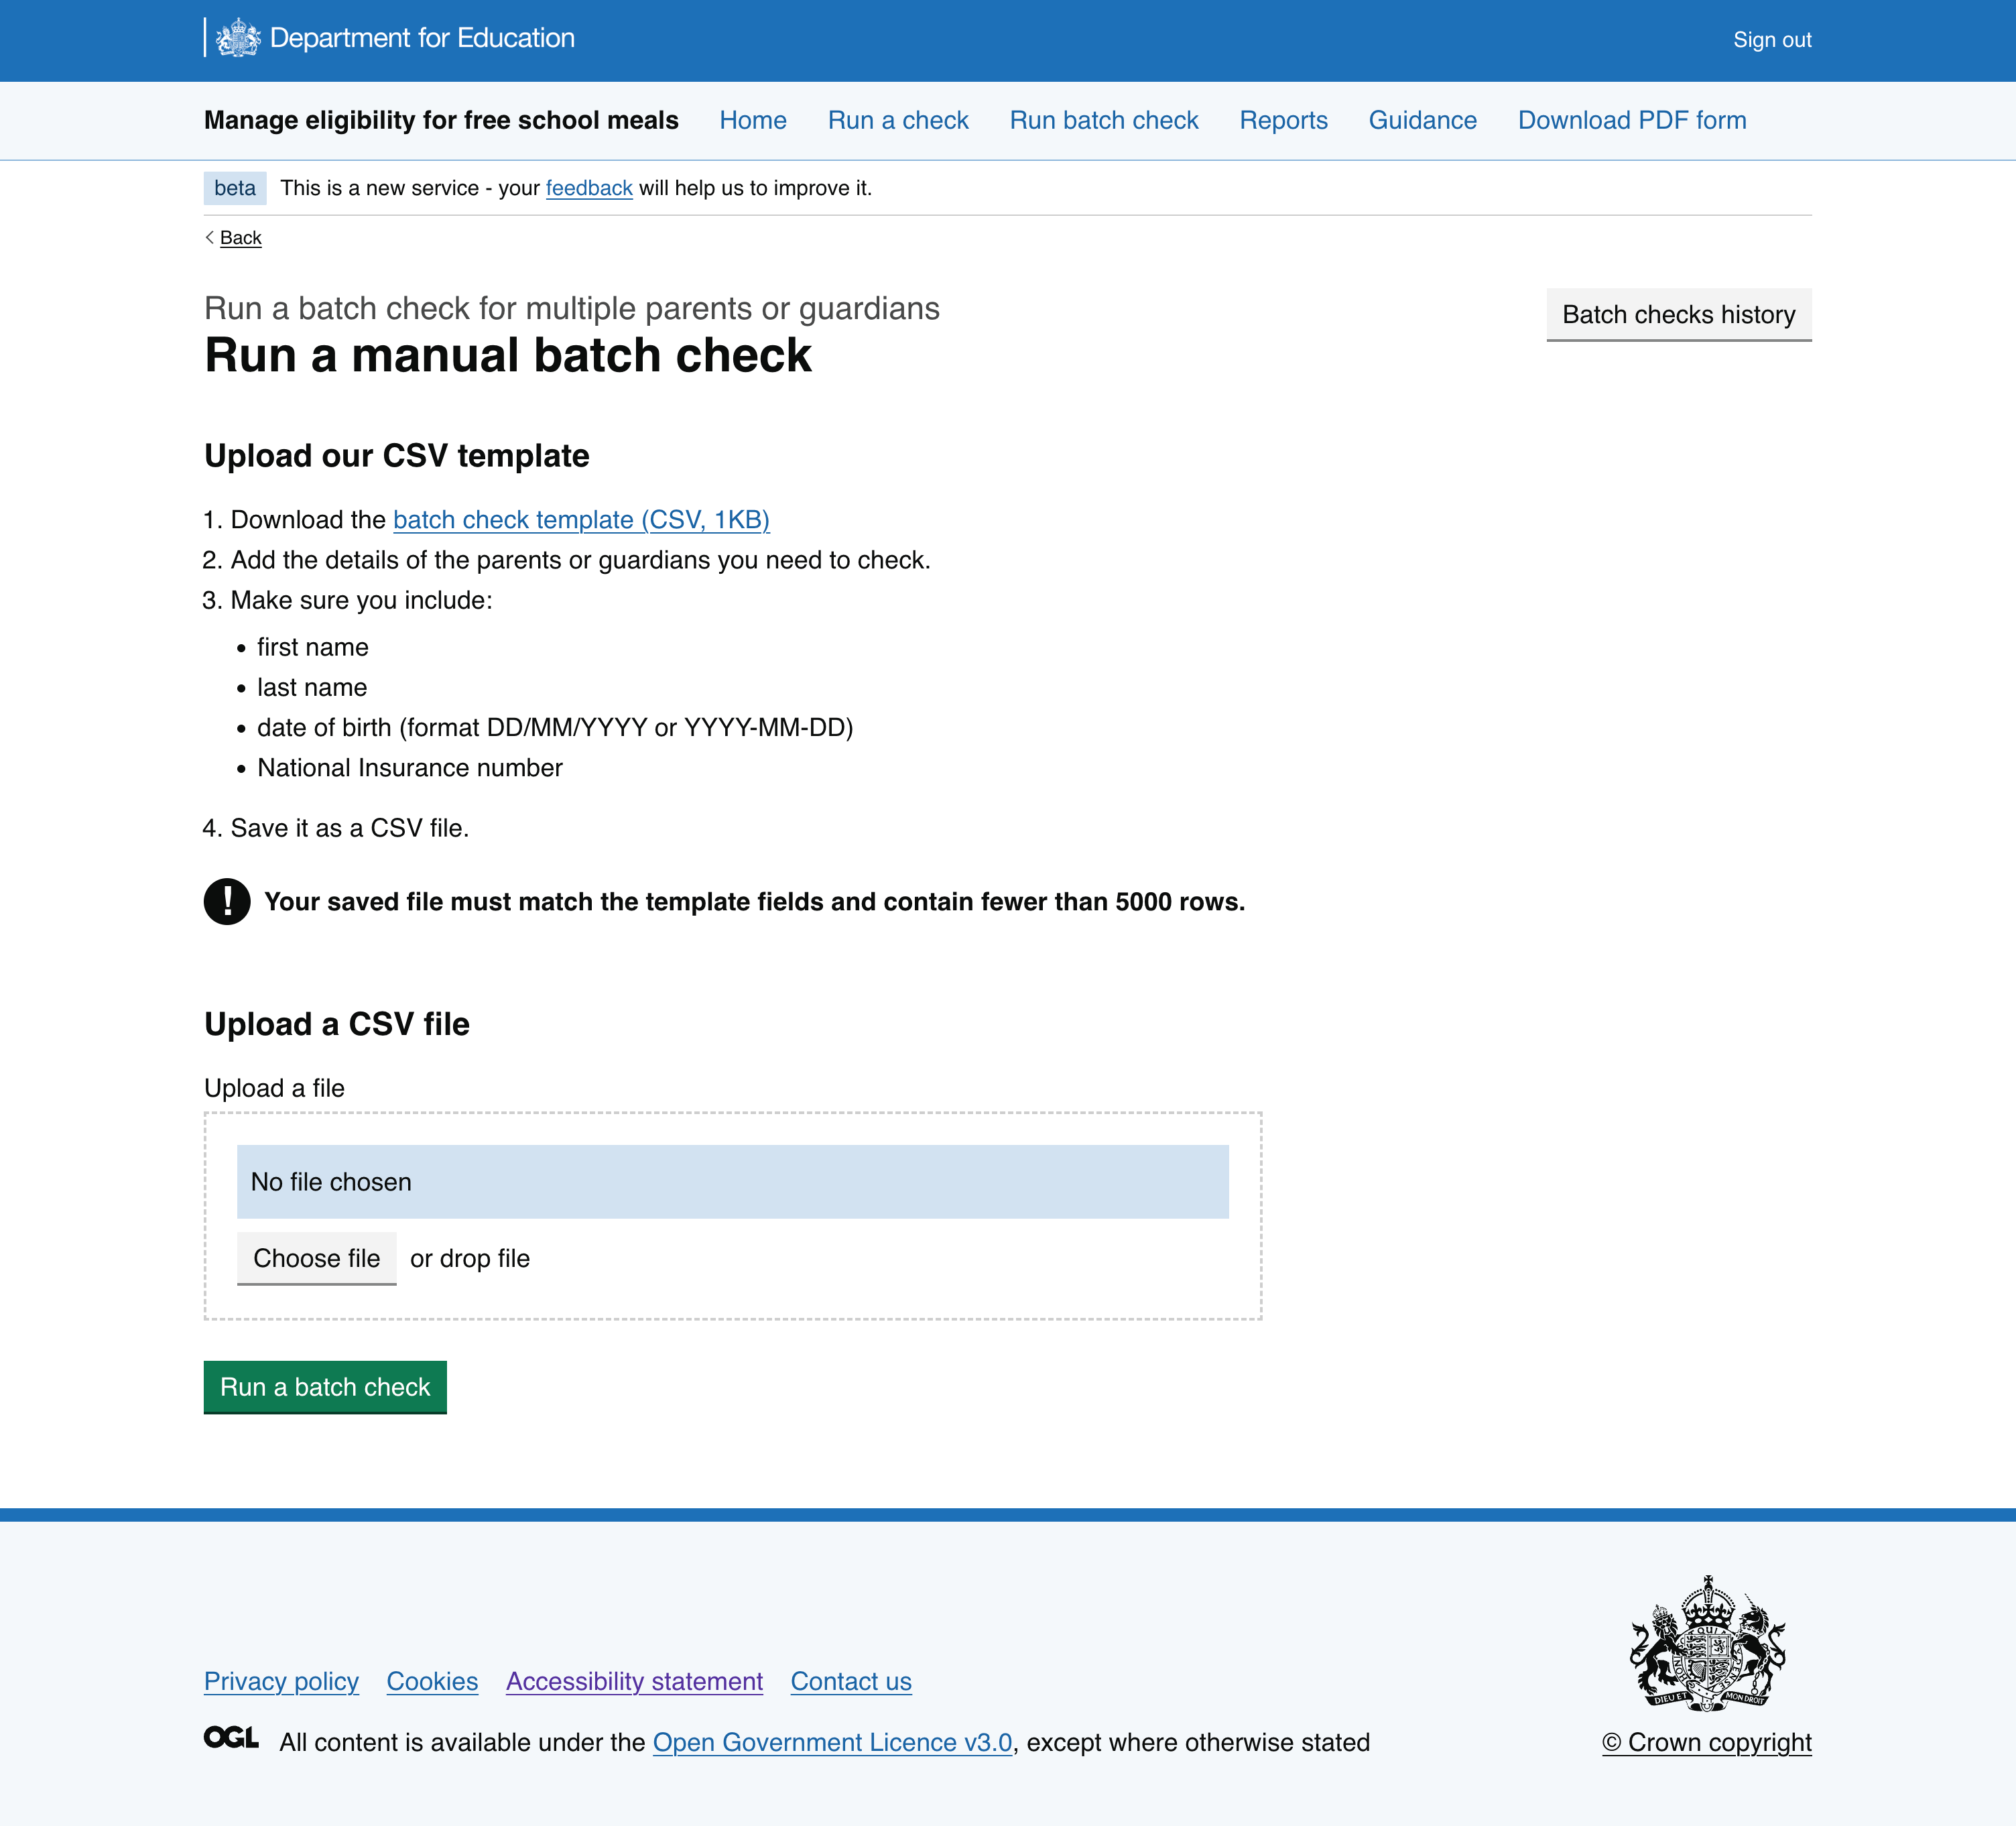
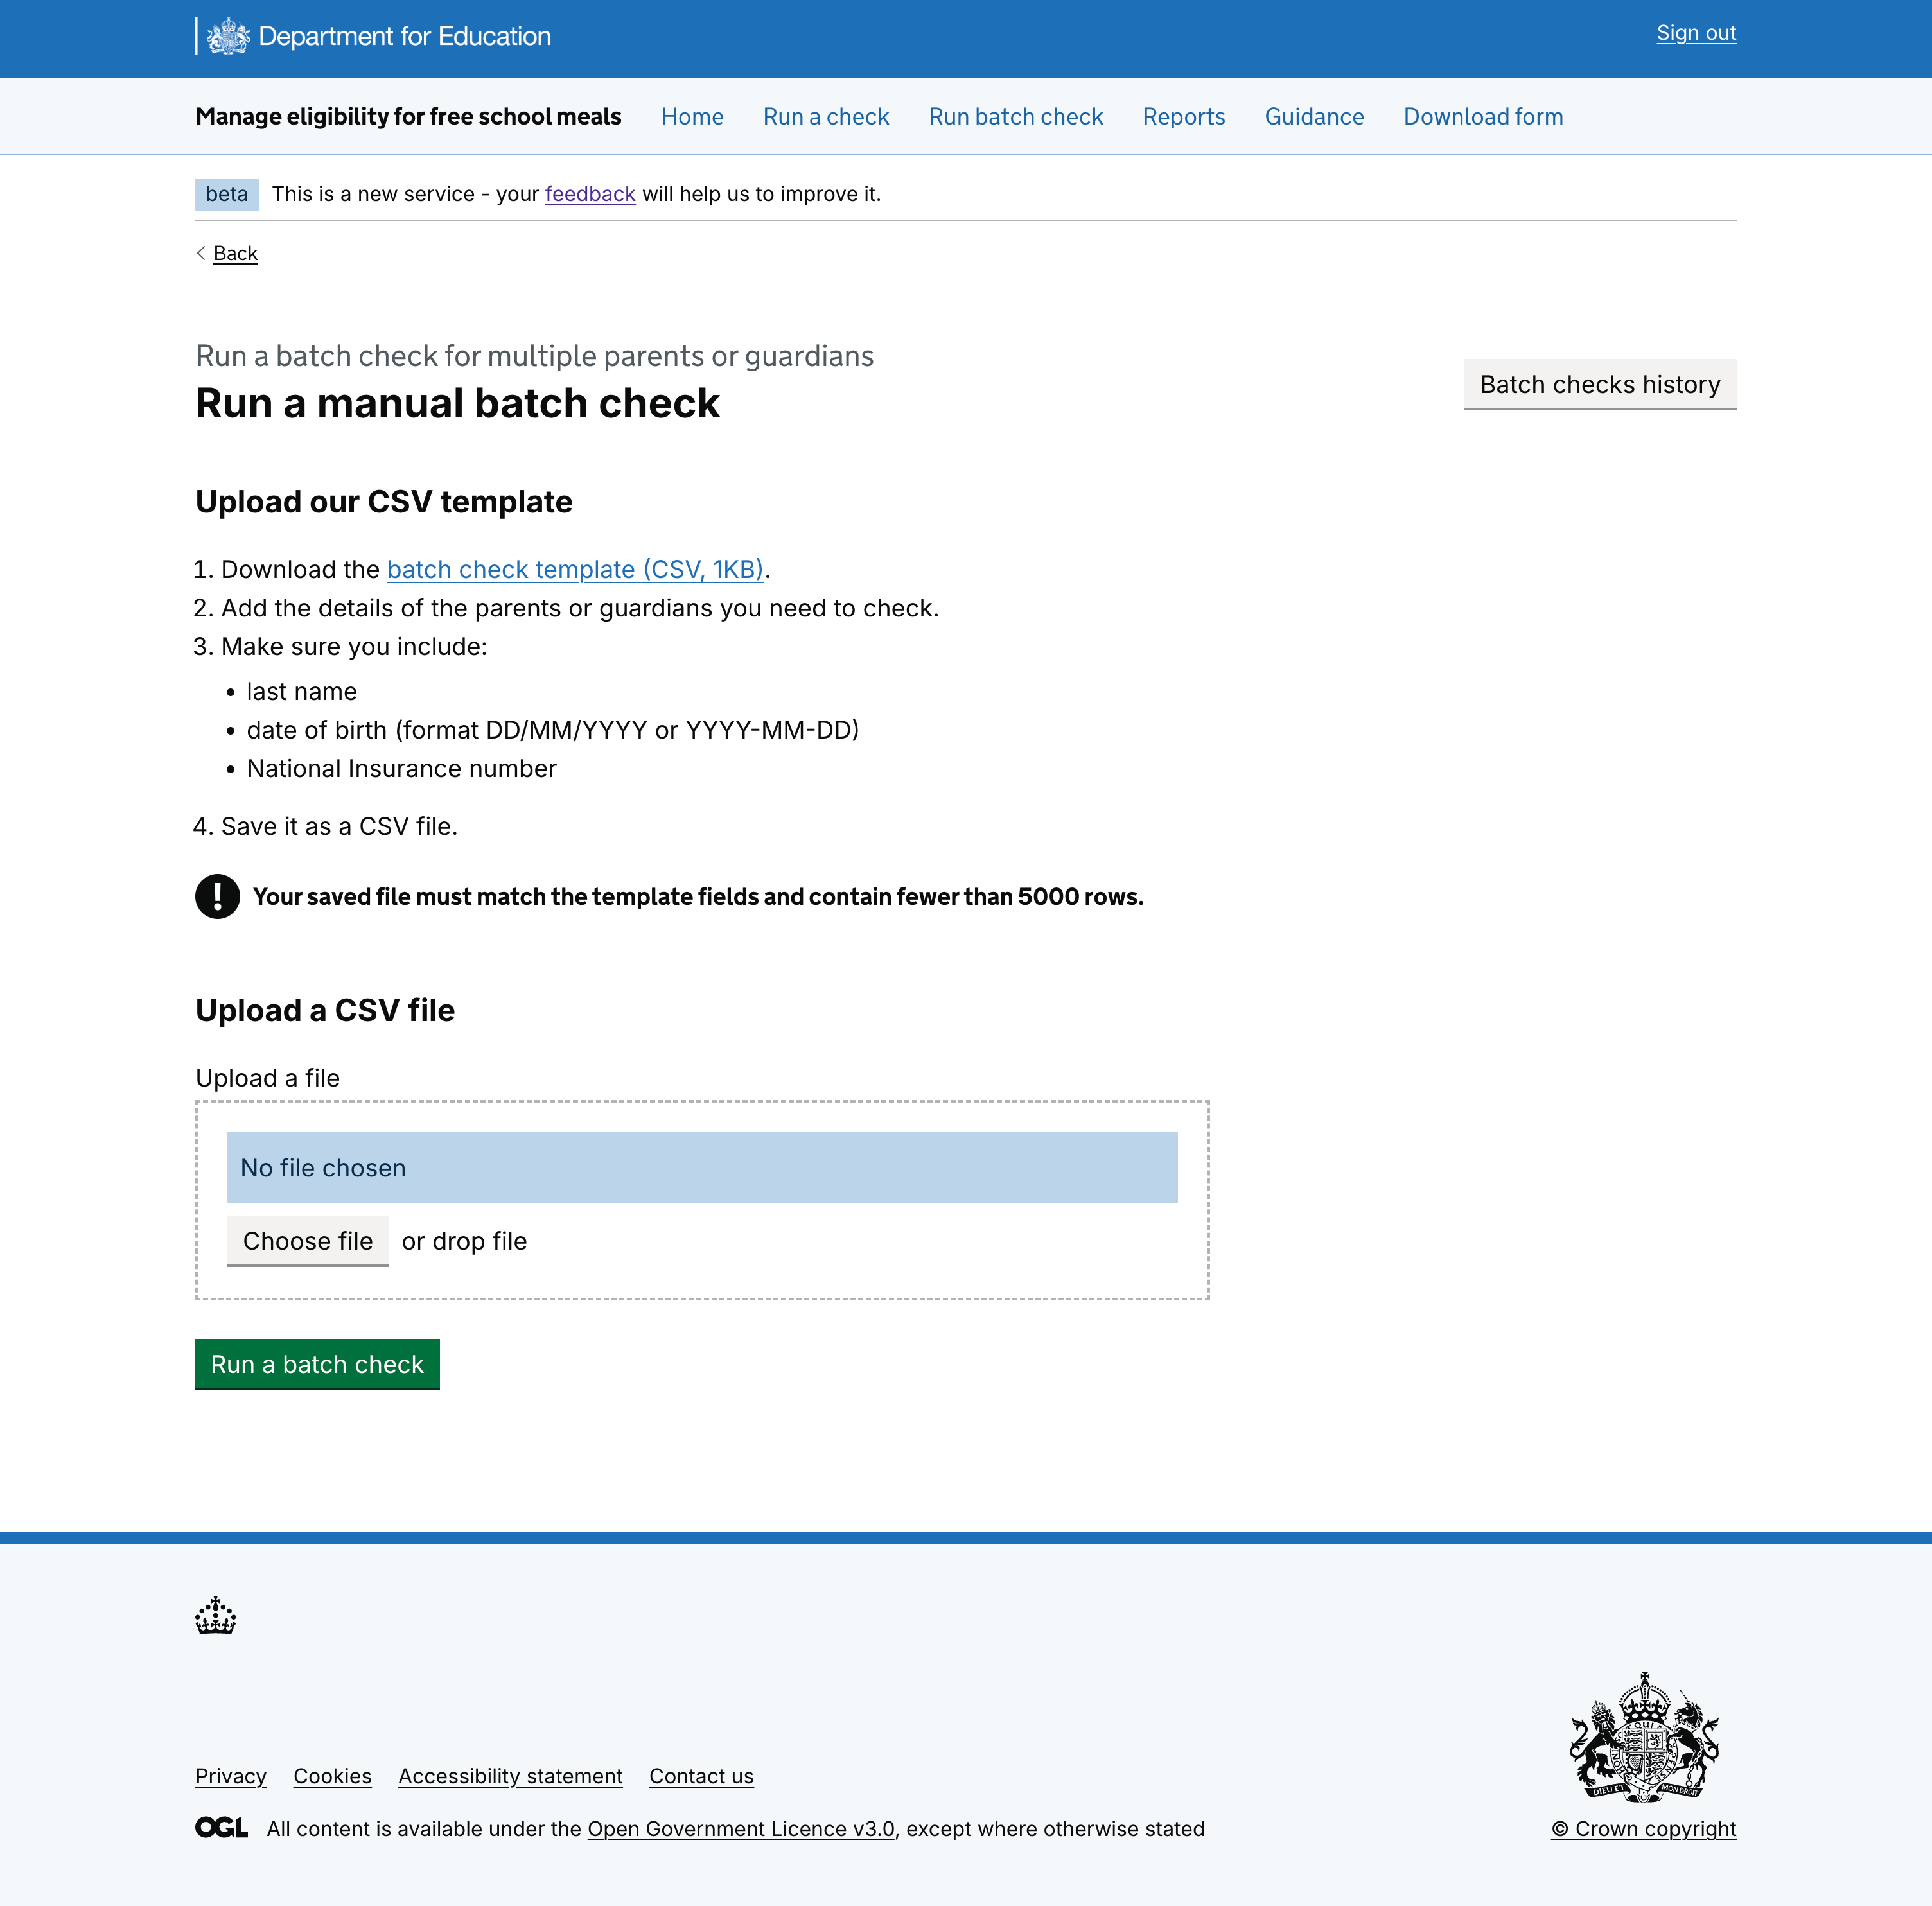
Merge pull request #603 from DFE-Digital/fsm-research-updates-1-5-26-lt
fsm dev ready fixes

Pull request: fsm dev ready fixes
updated batch check to remove first name
updated dev ready index page statuses and links

diff --git a/app/views/FSM/index/research-parent.html b/app/views/FSM/index/research-parent.html
@@ -1,0 +1,124 @@
+{% extends "layouts/FSM/index/layout-dfe-index-fsm.html" %}
+{% block pageTitle %}
+  Free school meals prototype
+{% endblock %}
+
+{% block beforeContent %}
+    {% from "govuk/components/breadcrumbs/macro.njk" import govukBreadcrumbs %}
+
+{{ govukBreadcrumbs({
+  classes: "govuk-!-margin-top-5",
+  items: [
+    {
+      text: "Free school meals",
+      href: "/fsm/index/index-fsm"
+    },
+    {
+      text: "Research and design",
+      href: "/fsm/index/research"
+    }
+  ]
+}) }}
+{% endblock %}
+
+
+{% block content %}
+
+<div class="govuk-grid-row">
+  <div class="govuk-grid-column-full">
+
+
+    <h1 class="govuk-heading-xl">
+      Parents and guardians
+    </h1>
+
+
+
+    <!---Usability testing details-->
+
+
+    <details class="govuk-details">
+      <summary class="govuk-details__summary">
+        <span class="govuk-details__summary-text">
+          Information required for usability tests
+        </span>
+      </summary>
+      <div class="govuk-details__text">
+        </ul>
+        <h2 class="govuk-heading-m">Information required for usability tests</h2>
+         <ul class="govuk-list govuk-list--bullet">
+          <li>Parent name - [first name, last name]</li>
+          <li>Parent date of birth </li>
+          <li>email address - [[email redacted]]</li>
+          <li>password for one gov - [password]</li>
+          <li>6 digit security code - 123456</li>
+          <li>NI number - [KL 123456]</li>
+          <li>Child name</li>
+          <li>Child date of birth</li>
+          <li>School details</li>
+          <li>Appeal evidence (pdf, png, jped)</li>
+        </ul>
+        </h2>
+      </div>
+    </details>
+
+    <h2 class="govuk-heading-m">Versions</h2>
+
+    <table class="govuk-table">
+      <thead class="govuk-table__head">
+        <tr class="govuk-table__row">
+          <th scope="col" class="govuk-table__header">Version</th>
+          <th scope="col" class="govuk-table__header">Research</th>
+          <th scope="col" class="govuk-table__header">Description</th>
+          <th scope="col" class="govuk-table__header">Links</th>
+          <th scope="col" class="govuk-table__header">Status</th>
+          <th scope="col" class="govuk-table__header">Last updated</th>
+        </tr>
+      </thead>
+      <tbody class="govuk-table__body">
+        <!--v8-1-->
+        <tr class="govuk-table__row">
+          <th scope="row" class="govuk-table__header"><a href="/FSM/Private_beta/v8-1/family/start-now-beta-schools">v8-1</a></th>
+          <td class="govuk-table__cell">
+
+          </td>
+          <td class="govuk-table__cell">
+            <p>Description. TBC.</p>
+
+          </td>
+          <td class="govuk-table__cell">
+            <p class="govuk-!-margin-bottom-2"><a href="/FSM/Private_beta/v8-1/family/start-now-beta-schools">Start page</a></p>
+            <p class="govuk-!-margin-bottom-2"><a href="/FSM/Private_beta/v8-1/family/parent-soft-check/outcomes/eligible">Eligible outcome</a></p>
+            <p class="govuk-!-margin-bottom-2"><a href="/FSM/Private_beta/v8-1/family/parent-soft-check/outcomes/not-eligible-appeal">Not eligible outcome - appeal</a></p>
+          </td>
+          <td class="govuk-table__cell"><strong class="govuk-tag govuk-tag--blue">Design</strong></td>
+          <td class="govuk-table__cell">1 May 2026</td>
+        </tr>
+        <!--v7-5-->
+        <tr class="govuk-table__row">
+          <th scope="row" class="govuk-table__header"><a href="/FSM/Private_beta/v7-5/family/start-now-beta-schools">v7-5</a></th>
+          <td class="govuk-table__cell">
+
+          </td>
+          <td class="govuk-table__cell">
+            <p>Description. TBC.</p>
+
+          </td>
+          <td class="govuk-table__cell">
+            <p class="govuk-!-margin-bottom-2"><a href="/FSM/Private_beta/v8-1/family/start-now-beta-schools">Start page</a></p>
+            <p class="govuk-!-margin-bottom-2"><a href="/FSM/Private_beta/v8-1/family/parent-soft-check/outcomes/eligible">Eligible outcome</a></p>
+            <p class="govuk-!-margin-bottom-2"><a href="/FSM/Private_beta/v8-1/family/parent-soft-check/outcomes/not-eligible-appeal">Not eligible outcome - appeal</a></p>
+          </td>
+          <td class="govuk-table__cell"><strong class="govuk-tag govuk-tag--green">Research completed</strong></td>
+          <td class="govuk-table__cell">25 October 2025</td>
+        </tr>
+      </tbody>
+    </table>
+
+
+
+  </div>
+</div>
+
+
+{% endblock %}

diff --git a/app/views/FSM/index/dev-la-basic.html b/app/views/FSM/index/dev-la-basic.html
@@ -74,11 +74,11 @@
         <tbody class="govuk-table__body">
           <tr class="govuk-table__row">
           <td class="govuk-table__cell"><a href="/FSM/Private_beta/dev/LA_Basic/start">Start page</a></td>
-          <td class="govuk-table__cell govuk-!-text-align-right"><strong class="govuk-tag govuk-tag--purple long-tag">In review</strong></td>
+          <td class="govuk-table__cell govuk-!-text-align-right"><strong class="govuk-tag govuk-tag--blue long-tag">Ready for development</strong></td>
         </tr>
         <tr class="govuk-table__row">
           <td class="govuk-table__cell"><a href="/FSM/Private_beta/dev/LA_Basic/dashboard">Dashboard</a></td>
-          <td class="govuk-table__cell govuk-!-text-align-right"><strong class="govuk-tag govuk-tag--purple long-tag">In review</strong></td>
+          <td class="govuk-table__cell govuk-!-text-align-right"><strong class="govuk-tag govuk-tag--blue long-tag">Ready for development</strong></td>
         </tr>
 
         </tbody>
@@ -93,11 +93,11 @@
         <tbody class="govuk-table__body">
           <tr class="govuk-table__row">
             <td class="govuk-table__cell"><a href="/FSM/Private_beta/dev/LA_Basic/basic-manage/basic-soft-check/checker">Run a check</a></td>
-            <td class="govuk-table__cell govuk-!-text-align-right"><strong class="govuk-tag govuk-tag--purple long-tag">In review</strong></td>
+            <td class="govuk-table__cell govuk-!-text-align-right"><strong class="govuk-tag govuk-tag--blue long-tag">Ready for development</strong></td>
           </tr>
           <tr class="govuk-table__row">
             <td class="govuk-table__cell"><a href="/FSM/Private_beta/dev/LA_Basic/basic-manage/basic-soft-check/checking-basic-loader">Checking loader</a></td>
-            <td class="govuk-table__cell govuk-!-text-align-right"><strong class="govuk-tag govuk-tag--purple long-tag">In review</strong></td>
+            <td class="govuk-table__cell govuk-!-text-align-right"><strong class="govuk-tag govuk-tag--blue long-tag">Ready for development</strong></td>
           </tr>
 
         </tbody>
@@ -110,23 +110,23 @@
         <tbody class="govuk-table__body">
           <tr class="govuk-table__row">
             <td class="govuk-table__cell"><a href="/FSM/Private_beta/dev/LA_Basic/basic-manage/basic-soft-check/outcomes/eligible-expanded">Eligible expanded</a></td>
-            <td class="govuk-table__cell govuk-!-text-align-right"><strong class="govuk-tag govuk-tag--purple long-tag">In review</strong></td>
+            <td class="govuk-table__cell govuk-!-text-align-right"><strong class="govuk-tag govuk-tag--blue long-tag">Ready for development</strong></td>
           </tr>
           <tr class="govuk-table__row">
             <td class="govuk-table__cell"><a href="/FSM/Private_beta/dev/LA_Basic/basic-manage/basic-soft-check/outcomes/eligible-targeted">Eligible targeted</a></td>
-            <td class="govuk-table__cell govuk-!-text-align-right"><strong class="govuk-tag govuk-tag--purple long-tag">In review</strong></td>
+            <td class="govuk-table__cell govuk-!-text-align-right"><strong class="govuk-tag govuk-tag--blue long-tag">Ready for development</strong></td>
           </tr>
            <tr class="govuk-table__row">
             <td class="govuk-table__cell"><a href="/FSM/Private_beta/dev/LA_Basic/basic-manage/basic-soft-check/outcomes/not-eligible">Not eligible</a></td>
-            <td class="govuk-table__cell govuk-!-text-align-right"><strong class="govuk-tag govuk-tag--purple long-tag">In review</strong></td>
+            <td class="govuk-table__cell govuk-!-text-align-right"><strong class="govuk-tag govuk-tag--blue long-tag">Ready for development</strong></td>
           </tr>
           <tr class="govuk-table__row">
             <td class="govuk-table__cell"><a href="/FSM/Private_beta/dev/LA_Basic/basic-manage/basic-soft-check/outcomes/could-not-find">Not found</a></td>
-            <td class="govuk-table__cell govuk-!-text-align-right"><strong class="govuk-tag govuk-tag--purple long-tag">In review</strong></td>
+            <td class="govuk-table__cell govuk-!-text-align-right"><strong class="govuk-tag govuk-tag--blue long-tag">Ready for development</strong></td>
           </tr>
           <tr class="govuk-table__row">
             <td class="govuk-table__cell"><a href="/FSM/Private_beta/dev/LA_Basic/basic-manage/basic-soft-check/outcomes/technical-error">Technical error</a></td>
-            <td class="govuk-table__cell govuk-!-text-align-right"><strong class="govuk-tag govuk-tag--purple long-tag">In review</strong></td>
+            <td class="govuk-table__cell govuk-!-text-align-right"><strong class="govuk-tag govuk-tag--blue long-tag">Ready for development</strong></td>
           </tr>
         </tbody>
       </table>
@@ -136,7 +136,7 @@
       <table class="govuk-table gov-uk-!-margin-top-0">
           <tr class="govuk-table__row">
             <td class="govuk-table__cell"><a href="/FSM/Private_beta/dev/LA_Basic/basic-manage/basic-soft-check/outcomes/eligible">Eligible</a></td>
-            <td class="govuk-table__cell govuk-!-text-align-right"><strong class="govuk-tag govuk-tag--purple long-tag">In review</strong></td>
+            <td class="govuk-table__cell govuk-!-text-align-right"><strong class="govuk-tag govuk-tag--blue long-tag">Ready for development</strong></td>
           </tr>
         </tbody>
       </table>
@@ -151,15 +151,15 @@
         <tbody class="govuk-table__body">
           <tr class="govuk-table__row">
             <td class="govuk-table__cell"><a href="/FSM/Private_beta/dev/LA_Basic/basic-manage/batch-checking/manual-no-ctf">Run a batch check</a></td>
-            <td class="govuk-table__cell govuk-!-text-align-right"><strong class="govuk-tag govuk-tag--purple long-tag">In review</strong></td>
+            <td class="govuk-table__cell govuk-!-text-align-right"><strong class="govuk-tag govuk-tag--blue long-tag">Ready for development</strong></td>
           </tr>
           <tr class="govuk-table__row">
             <td class="govuk-table__cell"><a href="/public/csv/fsm/dev/Batch-check-template.csv">Batch check template CSV</a></td>
-            <td class="govuk-table__cell govuk-!-text-align-right"><strong class="govuk-tag govuk-tag--purple long-tag">In review</strong></td>
+            <td class="govuk-table__cell govuk-!-text-align-right"><strong class="govuk-tag govuk-tag--blue long-tag">Ready for development</strong></td>
           </tr>
           <tr class="govuk-table__row">
             <td class="govuk-table__cell"><a href="/FSM/Private_beta/dev/LA_Basic/basic-manage/batch-checking/data-error">Data error</a></td>
-            <td class="govuk-table__cell govuk-!-text-align-right"><strong class="govuk-tag govuk-tag--purple long-tag">In review</strong></td>
+            <td class="govuk-table__cell govuk-!-text-align-right"><strong class="govuk-tag govuk-tag--blue long-tag">Ready for development</strong></td>
           </tr>
         </tbody>
       </table>
@@ -171,15 +171,15 @@
         <tbody class="govuk-table__body">
           <tr class="govuk-table__row">
             <td class="govuk-table__cell"><a href="/FSM/Private_beta/dev/LA_Basic/basic-manage/batch-checking/history/batch-history">Batch checks history</a></td>
-            <td class="govuk-table__cell govuk-!-text-align-right"><strong class="govuk-tag govuk-tag--purple long-tag">In review</strong></td>
+            <td class="govuk-table__cell govuk-!-text-align-right"><strong class="govuk-tag govuk-tag--blue long-tag">Ready for development</strong></td>
           </tr>
           <tr class="govuk-table__row">
             <td class="govuk-table__cell"><a href="/FSM/Private_beta/dev/LA_Basic/basic-manage/batch-checking/history/batch-history-empty">Batch checks history - no batch checks run</a></td>
-            <td class="govuk-table__cell govuk-!-text-align-right"><strong class="govuk-tag govuk-tag--purple long-tag">In review</strong></td>
+            <td class="govuk-table__cell govuk-!-text-align-right"><strong class="govuk-tag govuk-tag--blue long-tag">Ready for development</strong></td>
           </tr>
           <tr class="govuk-table__row">
             <td class="govuk-table__cell"><a href="/public/csv/fsm/dev/batch-check-outcomes-YYYY-MM-DD.csv">Batch check results CSV</a></td>
-            <td class="govuk-table__cell govuk-!-text-align-right"><strong class="govuk-tag govuk-tag--purple long-tag">In review</strong></td>
+            <td class="govuk-table__cell govuk-!-text-align-right"><strong class="govuk-tag govuk-tag--blue long-tag">Ready for development</strong></td>
           </tr>
           <tr class="govuk-table__row">
             <td class="govuk-table__cell"><a href="">Delete batch check</a></td>
@@ -192,7 +192,7 @@
           <!--
           <tr class="govuk-table__row">
             <td class="govuk-table__cell"><a href="/FSM/Private_beta/dev/LA_Basic/basic-manage/batch-checking/results/batch-check-success">View results</a></td>
-            <td class="govuk-table__cell govuk-!-text-align-right"><strong class="govuk-tag govuk-tag--purple long-tag">In review</strong></td>
+            <td class="govuk-table__cell govuk-!-text-align-right"><strong class="govuk-tag govuk-tag--blue long-tag">Ready for development</strong></td>
           </tr>
           -->
         </tbody>
@@ -207,32 +207,32 @@
         <tbody class="govuk-table__body">
           <tr class="govuk-table__row">
             <td class="govuk-table__cell"><a href="/FSM/Private_beta/dev/LA_Basic/basic-manage/report/report-checks">Run reports</a></td>
-            <td class="govuk-table__cell govuk-!-text-align-right"><strong class="govuk-tag govuk-tag--purple long-tag">In review</strong></td>
+            <td class="govuk-table__cell govuk-!-text-align-right"><strong class="govuk-tag govuk-tag--blue long-tag">Ready for development</strong></td>
           </tr>
           <tr class="govuk-table__row">
             <td class="govuk-table__cell"><a href="/FSM/Private_beta/dev/LA_Basic/basic-manage/report/create-report-checks">Generate a report</a></td>
-            <td class="govuk-table__cell govuk-!-text-align-right"><strong class="govuk-tag govuk-tag--purple long-tag">In review</strong></td>
+            <td class="govuk-table__cell govuk-!-text-align-right"><strong class="govuk-tag govuk-tag--blue long-tag">Ready for development</strong></td>
           </tr>
            <tr class="govuk-table__row">
             <td class="govuk-table__cell"><a href="/public/csv/fsm/dev/report-YYYY-MM-DD.csv">Report CSV</a></td>
-            <td class="govuk-table__cell govuk-!-text-align-right"><strong class="govuk-tag govuk-tag--purple long-tag">In review</strong></td>
+            <td class="govuk-table__cell govuk-!-text-align-right"><strong class="govuk-tag govuk-tag--blue long-tag">Ready for development</strong></td>
           </tr>
           <tr class="govuk-table__row">
             <td class="govuk-table__cell"><a href="/FSM/Private_beta/dev/LA_Basic/basic-manage/report/delete-report">Delete report</a></td>
-            <td class="govuk-table__cell govuk-!-text-align-right"><strong class="govuk-tag govuk-tag--purple long-tag">In review</strong></td>
+            <td class="govuk-table__cell govuk-!-text-align-right"><strong class="govuk-tag govuk-tag--blue long-tag">Ready for development</strong></td>
           </tr>
           <tr class="govuk-table__row">
             <td class="govuk-table__cell"><a href="/FSM/Private_beta/dev/LA_Basic/basic-manage/report/report-checks?report-status=deleted">Report deleted</a></td>
-            <td class="govuk-table__cell govuk-!-text-align-right"><strong class="govuk-tag govuk-tag--purple long-tag">In review</strong></td>
+            <td class="govuk-table__cell govuk-!-text-align-right"><strong class="govuk-tag govuk-tag--blue long-tag">Ready for development</strong></td>
           </tr>
           <!--
           <tr class="govuk-table__row">
             <td class="govuk-table__cell"><a href="/FSM/Private_beta/dev/LA_Basic/basic-manage/report/report-loader">Report loader</a></td>
-            <td class="govuk-table__cell govuk-!-text-align-right"><strong class="govuk-tag govuk-tag--purple long-tag">In review</strong></td>
+            <td class="govuk-table__cell govuk-!-text-align-right"><strong class="govuk-tag govuk-tag--blue long-tag">Ready for development</strong></td>
           </tr>
           <tr class="govuk-table__row">
             <td class="govuk-table__cell"><a href="/FSM/Private_beta/dev/LA_Basic/basic-manage/report/view-report-checks">View report</a></td>
-            <td class="govuk-table__cell govuk-!-text-align-right"><strong class="govuk-tag govuk-tag--purple long-tag">In review</strong></td>
+            <td class="govuk-table__cell govuk-!-text-align-right"><strong class="govuk-tag govuk-tag--blue long-tag">Ready for development</strong></td>
           </tr>
           -->
 
@@ -248,31 +248,31 @@
         <tbody class="govuk-table__body">
           <tr class="govuk-table__row">
             <td class="govuk-table__cell"><a href="/FSM/Private_beta/dev/LA_Basic/basic-manage/guidance/guidance">Guidance</a></td>
-            <td class="govuk-table__cell govuk-!-text-align-right"><strong class="govuk-tag govuk-tag--purple long-tag">In review</strong></td>
+            <td class="govuk-table__cell govuk-!-text-align-right"><strong class="govuk-tag govuk-tag--blue long-tag">Ready for development</strong></td>
           </tr>
           <tr class="govuk-table__row">
             <td class="govuk-table__cell"><a href="/FSM/Private_beta/dev/LA_Basic/basic-manage/guidance/how-to">Using the service</a></td>
-            <td class="govuk-table__cell govuk-!-text-align-right"><strong class="govuk-tag govuk-tag--purple long-tag">In review</strong></td>
+            <td class="govuk-table__cell govuk-!-text-align-right"><strong class="govuk-tag govuk-tag--blue long-tag">Ready for development</strong></td>
           </tr>
            <tr class="govuk-table__row">
             <td class="govuk-table__cell"><a href="/FSM/Private_beta/dev/LA_Basic/basic-manage/guidance/expansion">Expansion</a></td>
-            <td class="govuk-table__cell govuk-!-text-align-right"><strong class="govuk-tag govuk-tag--purple long-tag">In review</strong></td>
+            <td class="govuk-table__cell govuk-!-text-align-right"><strong class="govuk-tag govuk-tag--blue long-tag">Ready for development</strong></td>
           </tr>
           <tr class="govuk-table__row">
             <td class="govuk-table__cell"><a href="/FSM/Private_beta/dev/LA_Basic/basic-manage/guidance/rechecks">Rechecks</a></td>
-            <td class="govuk-table__cell govuk-!-text-align-right"><strong class="govuk-tag govuk-tag--purple long-tag">In review</strong></td>
+            <td class="govuk-table__cell govuk-!-text-align-right"><strong class="govuk-tag govuk-tag--blue long-tag">Ready for development</strong></td>
           </tr>
           <tr class="govuk-table__row">
-            <td class="govuk-table__cell"><a href="/FSM/Private_beta/dev/LA_Basic/basic-manage/guidance/asylum-check">Running batch checks guidance</a></td>
-            <td class="govuk-table__cell govuk-!-text-align-right"><strong class="govuk-tag govuk-tag--purple long-tag">In review</strong></td>
+            <td class="govuk-table__cell"><a href="/FSM/Private_beta/dev/LA_Basic/basic-manage/guidance/batch-check">Running batch checks guidance</a></td>
+            <td class="govuk-table__cell govuk-!-text-align-right"><strong class="govuk-tag govuk-tag--blue long-tag">Ready for development</strong></td>
           </tr>
           <tr class="govuk-table__row">
             <td class="govuk-table__cell"><a href="/FSM/Private_beta/dev/LA_Basic/basic-manage/guidance/evidence-guidance">Reviewing evidence guidance</a></td>
-            <td class="govuk-table__cell govuk-!-text-align-right"><strong class="govuk-tag govuk-tag--purple long-tag">In review</strong></td>
+            <td class="govuk-table__cell govuk-!-text-align-right"><strong class="govuk-tag govuk-tag--blue long-tag">Ready for development</strong></td>
           </tr>
           <tr class="govuk-table__row">
             <td class="govuk-table__cell"><a href="/FSM/Private_beta/dev/LA_Basic/basic-manage/guidance/asylum-check">Asylum seeker guidance</a></td>
-            <td class="govuk-table__cell govuk-!-text-align-right"><strong class="govuk-tag govuk-tag--purple long-tag">In review</strong></td>
+            <td class="govuk-table__cell govuk-!-text-align-right"><strong class="govuk-tag govuk-tag--blue long-tag">Ready for development</strong></td>
           </tr>
            <tr class="govuk-table__row">
             <td class="govuk-table__cell"><a href="">Asylum seeker form</a></td>
@@ -291,11 +291,11 @@
         <tbody class="govuk-table__body">
           <tr class="govuk-table__row">
             <td class="govuk-table__cell"><a href="/FSM/Private_beta/dev/_offline/fsm-print-version-la_basic">Download PDF form</a></td>
-            <td class="govuk-table__cell govuk-!-text-align-right"><strong class="govuk-tag govuk-tag--purple long-tag">In review</strong></td>
+            <td class="govuk-table__cell govuk-!-text-align-right"><strong class="govuk-tag govuk-tag--blue long-tag">Ready for development</strong></td>
           </tr>
            <tr class="govuk-table__row">
             <td class="govuk-table__cell"><a href="/public/pdf/fsm/dev/fsm-form-accessible.pdf">PDF form</a></td>
-            <td class="govuk-table__cell govuk-!-text-align-right"><strong class="govuk-tag govuk-tag--purple long-tag">In review</strong></td>
+            <td class="govuk-table__cell govuk-!-text-align-right"><strong class="govuk-tag govuk-tag--blue long-tag">Ready for development</strong></td>
           </tr>
         </tbody>
       </table>

diff --git a/app/views/FSM/index/research.html b/app/views/FSM/index/research.html
@@ -72,9 +72,9 @@
         <div class="dfe-card">
           <div class="dfe-card-container">
             <h2 class="govuk-heading-m">
-                <a class="govuk-link govuk-link--no-visited-state dfe-card-link--header" href="">Parents and guardians</a>
+                <a class="govuk-link govuk-link--no-visited-state dfe-card-link--header" href="/FSM/index/research-parent">Parents and guardians</a>
             </h2>
-            <p>TBC</p>
+            <p>Service for parents to check eligibility, add child details and evidence and send applications to schools.</p>
           </div>
         </div>
 

diff --git a/app/views/FSM/Private_beta/dev/LA_Basic/basic-manage/batch-checking/manual-no-ctf.html b/app/views/FSM/Private_beta/dev/LA_Basic/basic-manage/batch-checking/manual-no-ctf.html
@@ -31,7 +31,7 @@
         Add the details of the parents or guardians you need to check.</li>
       <li>Make sure you include:
         <ul class="govuk-list govuk-list--bullet">
-          <li>first name</li>
+          <!-- <li>first name</li>-->
           <li>last name</li>
           <li>date of birth (format DD/MM/YYYY or YYYY-MM-DD)</li>
           <li>National Insurance number</li>

diff --git a/app/views/childcare/dev/start.html b/app/views/childcare/dev/start.html
@@ -42,7 +42,7 @@
 
       <h2 class="govuk-heading-m govuk-!-margin-top-4">Help and support</h2>
 
-      <p>Use the <a href="https://customerhelpportal.education.gov.uk/">Customer Help Portal</a> to contact us and get help. Visit the <a href="https://khub.net/c/message_boards/find_message?p_l_id=[phone redacted]&messageId=[phone redacted]&redirect=https://khub.net/group/dfe-ecs-community/group-home?p_p_id=com_placecube_digitalplace_communities_activitystream_web_ActivityStreamPortlet&p_p_lifecycle=0&p_p_state=normal&p_p_mode=view">Knowledge Hub</a> to connect with colleagues at organisations using this service. </p>
+      <p>Use the <a href="https://customerhelpportal.education.gov.uk/">Customer Help Portal</a> to contact us and get help. Visit the <a href="https://khub.net/group/dfe-ecs-community/group-home">Knowledge Hub</a> to connect with colleagues at organisations using this service. </p>
 
       <h2 class="govuk-heading-m">Related content </h2>
 

diff --git a/app/views/childcare/v10/start.html b/app/views/childcare/v10/start.html
@@ -42,7 +42,7 @@
 
       <h2 class="govuk-heading-m govuk-!-margin-top-4">Help and support</h2>
 
-      <p>Use the <a href="https://customerhelpportal.education.gov.uk/">Customer Help Portal</a> to contact us and get help. Visit the <a href="">Knowledge Hub</a> to connect with colleagues at organisations using this service. </p>
+      <p>Use the <a href="https://customerhelpportal.education.gov.uk/">Customer Help Portal</a> to contact us and get help. Visit the <a href="https://khub.net/group/dfe-ecs-community/group-home">Knowledge Hub</a> to connect with colleagues at organisations using this service. </p>
 
       <h2 class="govuk-heading-m">Related content </h2>
 